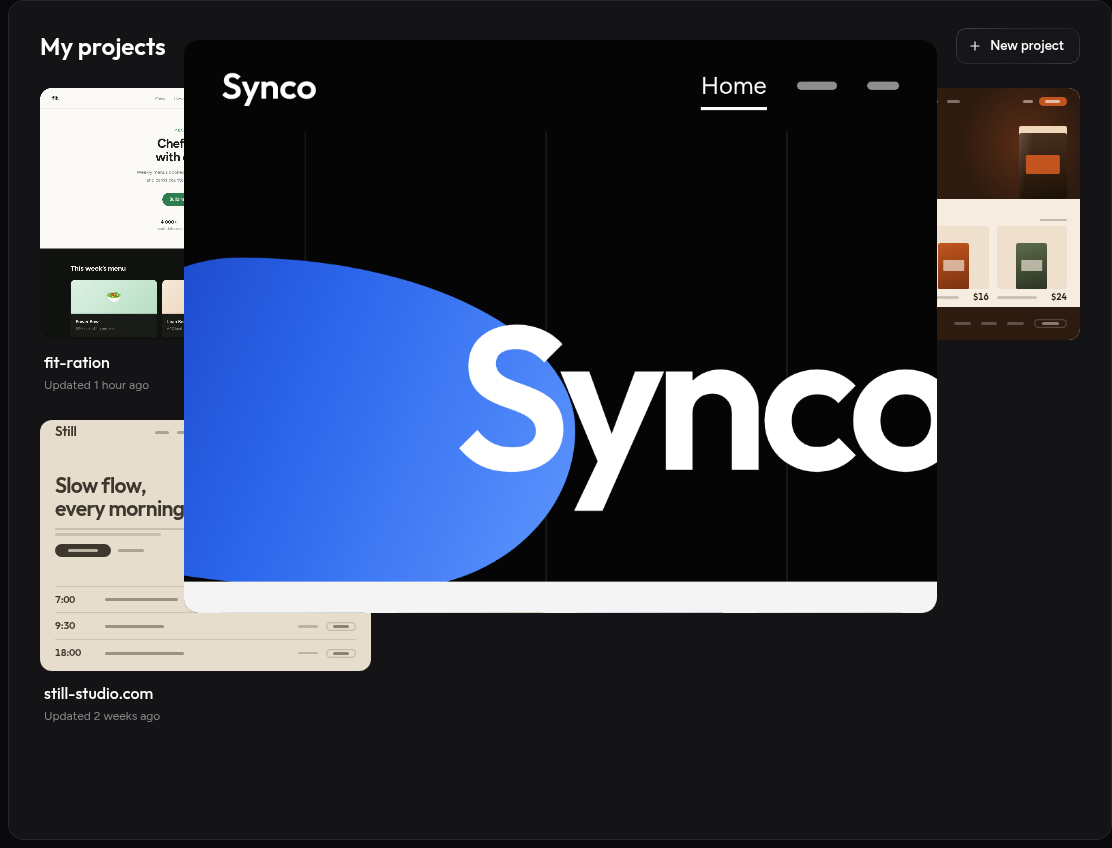
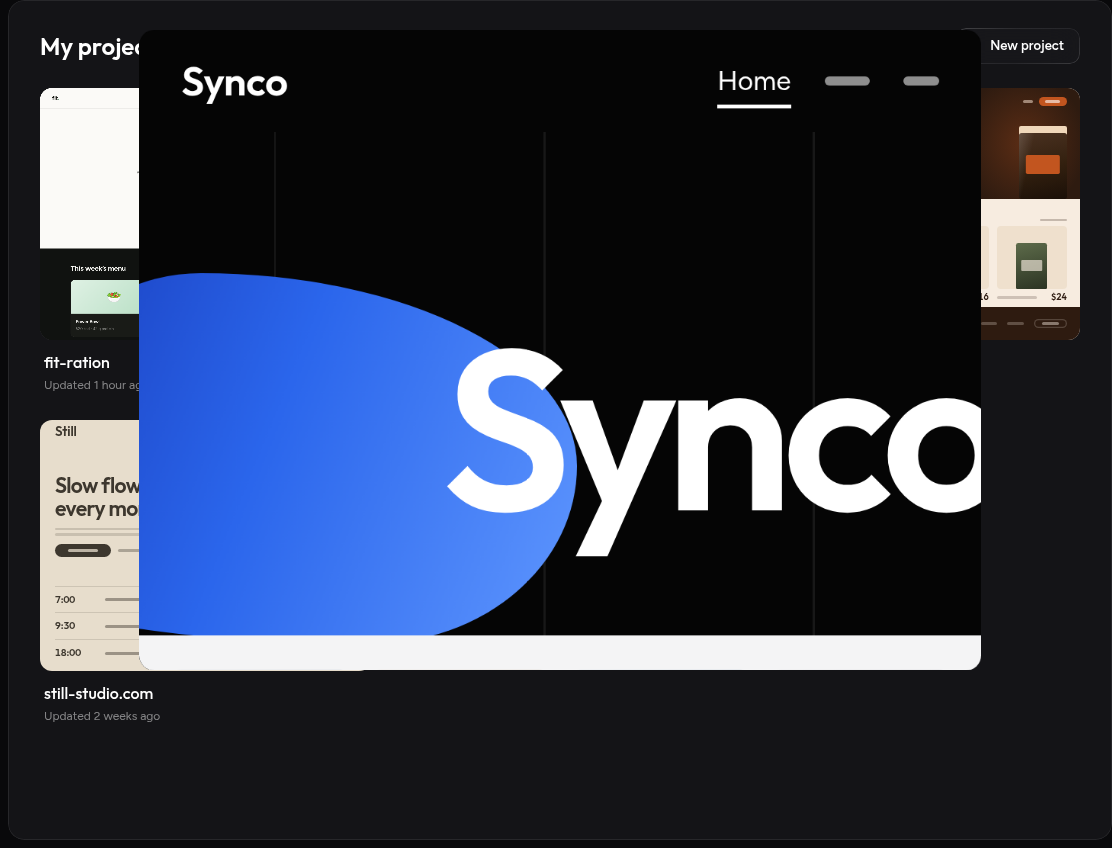
Site switcher: the shelf approaches inside the canvas clip, never over the toolbar
The designer's screenshot: the enlarged shelf (scaling in from 1.05) rode ~20 px up over the
canvas toolbar and covered the bottom of Publish and the credits pill for the length of the
approach. The scaling shelf now sits inside a clip cut to the canvas box with the window's
radius (`[data-sites-clip]`); scale and opacity ride the inner `[data-sites-shelf]`. Block M
gains a check that the clip stays on the canvas box on every frame while the shelf inside
reaches above it, and that the Publish button is the thing under its own bottom edge throughout.
Strips re-shot; law, spec, CLAUDE.md and the session log updated. Artifact version 108
(1,070,172 bytes — new CEILING).

Claude-Session: https://claude.ai/code/session_01M89Ky1Fyvq1PR1cAwBGLxr

Changed region(s): [[0.1223, 0.0613, 0.8867, 0.7972], [0.6421, 0.092, 0.8867, 0.3986], [0.1223, 0.0307, 0.1529, 0.0613]]

diff --git a/prototype/src/modules/sites/SitesShelf.tsx b/prototype/src/modules/sites/SitesShelf.tsx
@@ -154,12 +154,21 @@ export function SitesShelf() {
   const main = root.current?.closest('main') ?? null
 
   return (
+    /*
+     * THE APPROACH HAPPENS INSIDE THE FRAME. The shelf comes into place from 1.05 and recedes to 1.04, and
+     * a scaled box is larger than its seat: unclipped, its top edge rode ~20 px up over the canvas toolbar
+     * and covered the bottom of Publish and the credits pill for the length of the approach (the designer's
+     * screenshot, 25.09.2026: «у анимации есть вот такие визуальные баги»). So the scaling shelf sits inside
+     * a clip cut to the canvas box with the window's own radius — the way the iPhone's home screen zooms
+     * behind a closing app WITHIN the screen, never over its bezel. The clip is the outer element; the
+     * opacity and scale ride the inner one, which is what the suite films as `[data-sites-shelf]`.
+     */
+    <div ref={root} data-sites-clip className="absolute bottom-2 left-2 right-0 top-0 z-10 overflow-hidden rounded-[16px]">
     <motion.div
-      ref={root}
       data-sites-shelf
       role="dialog"
       aria-label={title}
-      className="absolute bottom-2 left-2 right-0 top-0 z-10 flex flex-col overflow-hidden rounded-[16px] bg-[var(--window-base)] shadow-[inset_0_0_0_1px_var(--gray-800)]"
+      className="absolute inset-0 flex flex-col overflow-hidden rounded-[16px] bg-[var(--window-base)] shadow-[inset_0_0_0_1px_var(--gray-800)]"
       style={{ opacity: shelfO, scale: shelfS, transformOrigin: '50% 50%', willChange: 'transform, opacity' }}
     >
       {/* the title row: what this is, and the one way to a new site — the Home page, where every site starts */}
@@ -203,6 +212,7 @@ export function SitesShelf() {
         main,
       )}
     </motion.div>
+    </div>
   )
 }
 

diff --git a/CLAUDE.md b/CLAUDE.md
@@ -184,7 +184,7 @@ React 18 + Vite + TypeScript + Tailwind + zustand + motion. Запуск: `npm i
 зашивает CSS, JS и все .woff2 в base64 — на опубликованной странице CSP режет любой
 внешний запрос).
 ⚠ **Лимит публикации неизвестен; `CEILING` в скрипте — это ПОЛ, а не потолок.**
-07.09.2026 опубликовались подряд 707 289, 724 265, 740 372, 754 590, 754 641, 754 751, 756 148, 756 860 и (08.09) 758 511, 759 793, 760 375, 763 640, 765 199, 765 334, 768 817, 767 155, 766 032, 773 849, 773 852, 774 223, 774 593, 775 554, 776 800, 776 850, 777 001, 777 093, (09.09) 788 003, 794 298, 795 479, 798 826, 798 942, 799 152 и (10.09) 799 327, (11.09) 817 116 817 648 817 940 818 000, 818 119 и (14.09) 973 006, 973 036 и (21.09) 974 391, 977 301, 975 884, 980 702 и (22.09) 981 007, 999 782, 1 000 658, 1 003 903 и (23.09) 1 009 588, 1 009 935, 1 014 495, 1 018 962 и (24.09) 1 019 052, 1 019 123, 1 019 256, 1 035 265 и (25.09) 1 037 820, 1 039 237, 1 039 234, 1 055 780 и (25.09, ночь) **1 070 067** байт, хотя тот же
+07.09.2026 опубликовались подряд 707 289, 724 265, 740 372, 754 590, 754 641, 754 751, 756 148, 756 860 и (08.09) 758 511, 759 793, 760 375, 763 640, 765 199, 765 334, 768 817, 767 155, 766 032, 773 849, 773 852, 774 223, 774 593, 775 554, 776 800, 776 850, 777 001, 777 093, (09.09) 788 003, 794 298, 795 479, 798 826, 798 942, 799 152 и (10.09) 799 327, (11.09) 817 116 817 648 817 940 818 000, 818 119 и (14.09) 973 006, 973 036 и (21.09) 974 391, 977 301, 975 884, 980 702 и (22.09) 981 007, 999 782, 1 000 658, 1 003 903 и (23.09) 1 009 588, 1 009 935, 1 014 495, 1 018 962 и (24.09) 1 019 052, 1 019 123, 1 019 256, 1 035 265 и (25.09) 1 037 820, 1 039 237, 1 039 234, 1 055 780 и (25.09, ночь) 1 070 067, **1 070 172** байт, хотя тот же
 скрипт до этого называл 704 239 «2.3 KB под лимитом», а 754 259 — приговором. Последняя пара
 и есть весь аргумент: файл на 331 байт МЕНЬШЕ того, что уже опубликовался, скрипт объявил
 мёртвым. Поэтому скрипт печатает headroom, а не
@@ -3575,7 +3575,8 @@ Segoe на винде, DejaVu в Linux-браузере — три разных 
   свою карточку** на полке и остаётся там картинкой (`[data-site-park]`, парковка `parkP` 0 → 1 на `FLIGHT_SEAT`,
   масштаб геометрический до карточка/канвас, радиус 16 → 12 / масштаб; карточка вырезана в АСПЕКТЕ КАНВАСА — оси
   равны, ни кропа, ни полос), полка приходит как домашний экран за закрывающимся приложением (1.05 → 1 на той же
-  пружине, непрозрачна за 280 мс); выбор — картинка карточки вырастает до канваса клоном у назначения
+  пружине, непрозрачна за 280 мс — **ВНУТРИ клипа по боксу канваса**: без клипа увеличенная полка выезжала на тулбар и
+  накрывала низ `Publish`, скриншот дизайнера 25.09.2026); выбор — картинка карточки вырастает до канваса клоном у назначения
   (`FLIGHT_OPEN`, содержимое по большому концу) и **на посадке становится сайтом**: `set({ site })` меняет срез,
   `SiteStage` рисует те же пиксели под клоном, через два кадра полка и клон уходят, свечение отмечает загрузку
   (~2,2 с, `triggerReload`). Обратно (текущая карточка, Esc, клик по имени) — тот же полёт назад. Пока сайта нет
@@ -3600,7 +3601,7 @@ Segoe на винде, DejaVu в Linux-браузере — три разных 
   `Thumb` при ширине канваса в аспект-боксе, как сцена пикера; его страницы не существуют — переключатель страниц на
   нём ничего не меняет (открыто дизайнеру). Консоль: ось «Open site» (группа Project), «Their four sites» (Home).
   Закон — `design-system.md` §7 «Переключатель сайтов: сайт улетает в свою карточку» + строка реестра, спека —
-  `docs/handoff/site-switcher-spec.md`, приёмка — блок M `check:brief` (14), пробники — `scratchpad/site-switch/`.
+  `docs/handoff/site-switcher-spec.md`, приёмка — блок M `check:brief` (15), пробники — `scratchpad/site-switch/`.
 - **КОРЗИНА ПАНЕЛИ DREAMHOST — часть флоу** (`modules/panel/PanelCart.tsx`, влита из
   `claude/remixer-shopping-cart-p788be` 13.09.2026). «Continue to checkout» в чек-аут-шите
   НЕ открывает экран Remixer: она наполняет корзину (`world.cart`) и передаёт человека в

diff --git a/docs/knowledge/design-system.md b/docs/knowledge/design-system.md
@@ -4270,6 +4270,12 @@ o 1 → 0 за ~110 мс от первого сдвинувшегося кадр
 · **Полка приходит как домашний экран за закрывающимся приложением:** непрозрачность за 280 мс, масштаб 1.05 → 1
   на той же пружине, что несёт сайт (`FLIGHT_SEAT` .62 / .16). Хрома окна канваса, «My projects», `New project`
   (дверь на домашнюю), карточка проекта дока во втором доме; текущая — с волоском и живой картинкой.
+  ⚠ **Приближение идёт ВНУТРИ рамки** (баг-репорт дизайнера 25.09.2026 со скриншотом: «у анимации есть вот такие
+  визуальные баги»): увеличенная полка это бокс больше своего места, и без клипа её верхняя кромка выезжала на
+  ~20 px на тулбар канваса и накрывала низ `Publish` и пилюли кредитов на всё приближение. Масштабируемая полка сидит
+  в клипе, вырезанном по боксу канваса с радиусом окна (`[data-sites-clip]`) — обои домашнего экрана зумятся внутри
+  экрана, а не поверх рамки. Замер: клип на [440, 52, 1104 × 840] во всех кадрах, полка внутри доходит до y = 31,
+  под нижней кромкой `Publish` во всех кадрах — сама кнопка.
 · **Выбор: картинка карточки вырастает до канваса и СТАНОВИТСЯ сайтом.** Клон, смонтированный у назначения
   (FLIP), содержимое по большому концу, `FLIGHT_OPEN` .56 с плоско (приходит поверхность); на посадке мир меняет
   сайт одним коммитом (`world.site` → срез сайта из стеллажа, `SiteStage` рисует те же пиксели под клоном), через

diff --git a/docs/sessions/2026-09-23--handoff-to-next-window.md b/docs/sessions/2026-09-23--handoff-to-next-window.md
@@ -5,9 +5,9 @@
 **Последний коммит (25.09.2026, ночь):** см. `git log` — ветка `claude/remixer-connect-domain-flow-4fpgqc`,
 последний — «Site switcher…» (имя сайта в шапке чата, полка сайтов на канвасе, сайт улетает в свою
 карточку). Дерево чисто, всё запушено.
-**Артефакт:** https://claude.ai/code/artifact/3a24a501-7176-4bf4-8e99-cbb56b7ba1a9 — **версия 107**,
-1 070 067 байт (новый потолок публикации — `CEILING` в `prototype/scripts/build-artifact.mjs`).
-**Сюита:** `npm run check:brief` — **628 проверок** (615 + блок M сайтов 14 − 1 объединённая), ~10 минут;
+**Артефакт:** https://claude.ai/code/artifact/3a24a501-7176-4bf4-8e99-cbb56b7ba1a9 — **версия 108**,
+1 070 172 байт (новый потолок публикации — `CEILING` в `prototype/scripts/build-artifact.mjs`).
+**Сюита:** `npm run check:brief` — **629 проверок** (615 + блок M сайтов 15 − 1 объединённая), ~10 минут;
 последний полный прогон 627/628 — единственный FAIL это переход страниц в блоке L на границе 20 мс, которой
 после этого дана одна софтверная рама (45 мс) и блок L отдельно 16/16. Две ранние границы, что плавают на
 софтверном растре: 300 мс на уходе чипа домена (302 в одном прогоне) и 8 сэмплов за 300 мс у плитки рейла

diff --git a/docs/sessions/2026-09-13b--connect-domain-for-product-owners.md b/docs/sessions/2026-09-13b--connect-domain-for-product-owners.md
@@ -3435,3 +3435,13 @@ sites».
 
 **Приёмка.** Блок M сюиты — 14 проверок (отдельно 14/14, полный прогон — см. хендофф). Артефакт — см. хендофф.
 
+**Дополнение (тем же вечером): «а у анимации есть вот такие визуальные баги».** Скриншот дизайнера: верх полки
+накрывал низ `Publish changes 2` и пилюли кредитов в тулбаре канваса. Причина — приближение полки из 1.05:
+увеличенный бокс больше своего места, а `main` не клипует, поэтому верхняя кромка выезжала на ~20 px на тулбар (и
+на стрипе `sheet-open.jpg` второй кадр показывал срезанный тайтл «My projects» — я его не прочитал). Полка теперь
+масштабируется ВНУТРИ клипа по боксу канваса с радиусом окна (`[data-sites-clip]`; масштаб и непрозрачность — на
+внутреннем `[data-sites-shelf]`) — обои домашнего экрана зумятся внутри экрана, не поверх рамки. Замер
+(`scratchpad/site-switch/spill.mjs`): клип на [440, 52, 1104 × 840] во всех кадрах, внутренняя полка при 1.05
+доходит до y = 31, и под нижней кромкой `Publish` во всех кадрах — сама кнопка. В блок M добавлена проверка (15).
+Стрипы пересняты.
+
